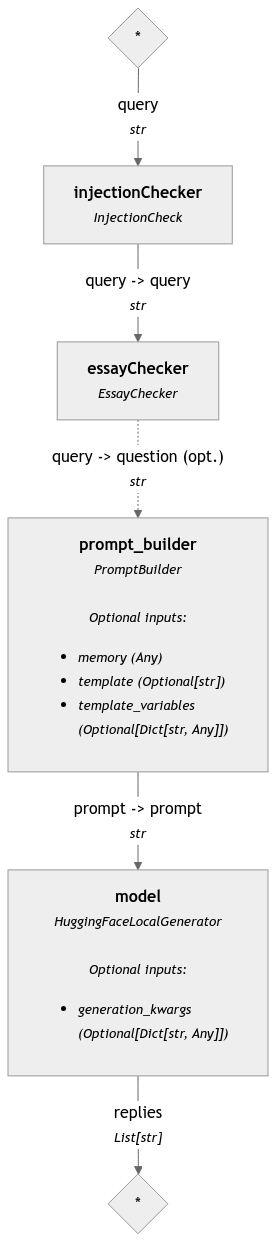
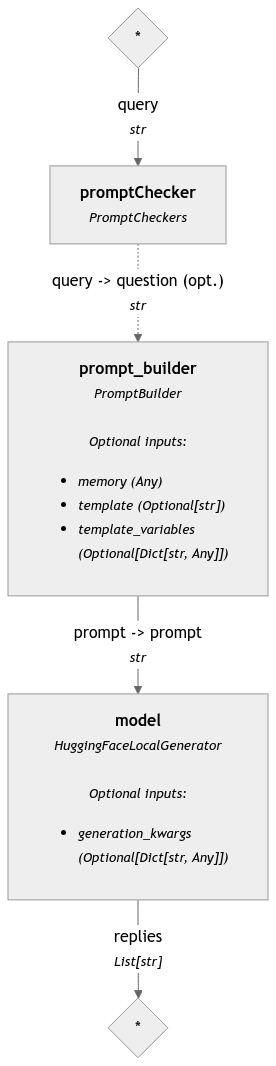
Combined essay and injection checks.

diff --git a/P0Testing/promptCheckers.py b/P0Testing/promptCheckers.py
@@ -1,0 +1,74 @@
+from haystack import component
+from transformers import AutoTokenizer, AutoModelForSequenceClassification, pipeline
+from sentence_transformers import SentenceTransformer
+from statistics import fmean
+import torch
+import sys
+@component
+class PromptCheckers:
+    """
+    Prevent user from trying to write an essay or prompt inject
+    """
+    @component.output_types(query=str)
+    def run(self, query:str):
+        prompt = query    
+        # Two lists of sentences
+        injectTokenizer = AutoTokenizer.from_pretrained("ProtectAI/deberta-v3-base-prompt-injection")
+        injectModel = AutoModelForSequenceClassification.from_pretrained("ProtectAI/deberta-v3-base-prompt-injection")
+        classifier = pipeline(
+            "text-classification",
+            model=injectModel,
+            tokenizer=injectTokenizer,
+            truncation=True,
+            max_length=512,
+            device=torch.device("cuda" if torch.cuda.is_available() else "cpu"),
+            )
+
+        essayModel = SentenceTransformer('sentence-transformers/all-MiniLM-L6-v2')
+        sentences2 = [
+            "Compose an essay for me.",
+            "Can you draft an essay for me?",
+            "Please write an essay for me.",
+            "Could you prepare an essay for me?",
+            "I need an essay written, can you help?",
+            "Create an essay for me.",
+            "Would you mind writing an essay for me?",
+            "Please put together an essay for me.",
+            "Could you pen an essay for me?",
+            "I'd like you to write an essay for me.",
+            "Can you craft an essay for me?",
+            "Write an essay for me, if you can.",
+            "Could you prepare a written piece for me in essay form?",
+            "I need an essay, could you write it for me?",
+            "Would you help me by writing an essay?"
+            "Hello write an essay about"
+        ]
+        
+        #print(question)
+        # Compute embeddings for both lists
+        embeddings2 = essayModel.encode(sentences2)
+        
+        while True:
+            if(prompt == -1):
+                sys.exit()
+            embeddings1 = essayModel.encode(prompt)
+            # Compute cosine similarities
+            similarities = essayModel.similarity(embeddings1, embeddings2)
+            #print(similarities.data[0])
+            avg = fmean(similarities.data[0])
+            print(avg)
+            if(avg > .40):
+                print("Detected trying to write essay\n prompt again: ")
+                prompt = input()
+                continue
+            """*****************************promptInjector*****************************"""   
+
+            result = classifier(prompt)
+            label = result[0]['label']
+            print(label)
+            if(label == "INJECTION"):
+                print("illegal prompt deteted.\nReprompt: ")
+                prompt = input()
+                continue
+            
+            return {"query": prompt}          

diff --git a/P0Testing/HstkTest.py b/P0Testing/HstkTest.py
@@ -2,8 +2,7 @@ from typing import List
 from haystack import Pipeline
 from haystack.components.generators import HuggingFaceLocalGenerator
 from haystack.components.builders.prompt_builder import PromptBuilder
-from SentenceSimTest import EssayChecker
-from promptInjectionCheck import InjectionCheck
+from promptCheckers import PromptCheckers
 #Also prints full 'result' info
 #instead of just model reply
 debug = False
@@ -30,22 +29,16 @@ Answer only this: {{question}}
 """
 prompt_builder = PromptBuilder(template=sysMsg)
 
-
-"""*****************************promptInjector*****************************"""
-injectionChecker = InjectionCheck()
-
 """*****************************checker*****************************"""
-essayChecker = EssayChecker()
+promptChecker = PromptCheckers()
 
 """*****************************Pipeline*****************************"""
 pipe = Pipeline()
-pipe.add_component("essayChecker", essayChecker)
-pipe.add_component("injectionChecker",injectionChecker)
+pipe.add_component("promptChecker",promptChecker)
 pipe.add_component("prompt_builder",prompt_builder)
 pipe.add_component("model",model)
 
-pipe.connect("injectionChecker.query","essayChecker.query")
-pipe.connect("essayChecker.query","prompt_builder.question") #var query passed to var question
+pipe.connect("promptChecker.query","prompt_builder.question") #var query passed to var question
 pipe.connect("prompt_builder","model") #prompt passed to model
 pipe.draw(path="./PipeLineImage.jpg")
 
@@ -63,15 +56,15 @@ while True:
     #Run the pipeline
     
     result = pipe.run(data={"prompt_builder": {"memory":memory} #memory passed to sysMsh memory
-                            ,"injectionChecker": {"query" : prompt}}) #var prompt passed to essayChecker query
+                            ,"promptChecker": {"query" : prompt}}) #var prompt passed to essayChecker query
     
     ChatbotOutput = print(result['model']['replies'][0]) #Model Reply byitself
     print(ChatbotOutput)
     
     #basic memory implementation
     counter+= 1
-    memory += "Question_Asked number " + str(counter) + ": " + prompt + ". "
-    memory += "Responce number " + str(counter) + ": " + result['model']['replies'][0] + ". "#add reply to memory
+    memory += "prompt " + str(counter) + ": " + prompt + ". "
+    memory += "Responce " + str(counter) + ": " + result['model']['replies'][0] + ". "#add reply to memory
     #print(memory)
     if debug:
         print("\n\n")
